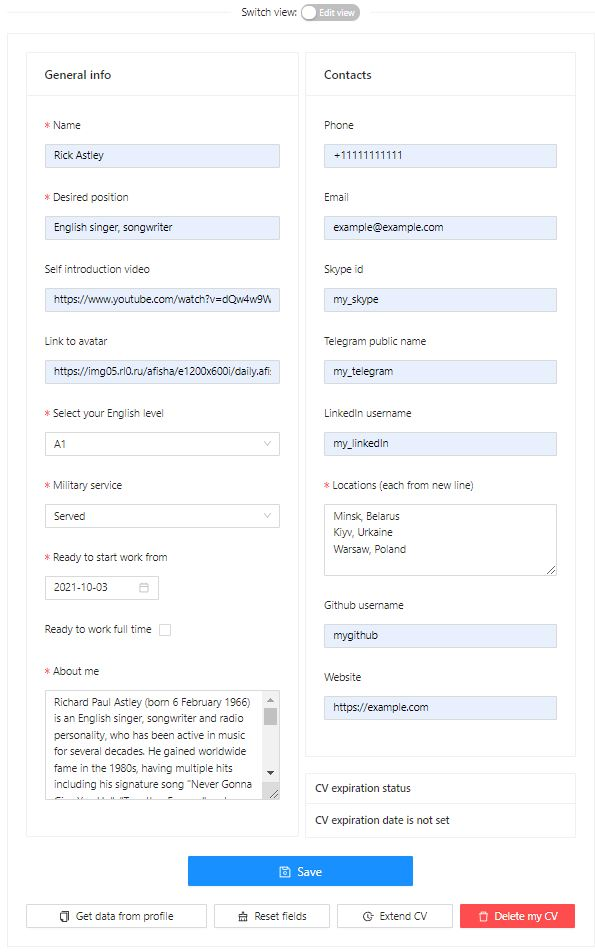
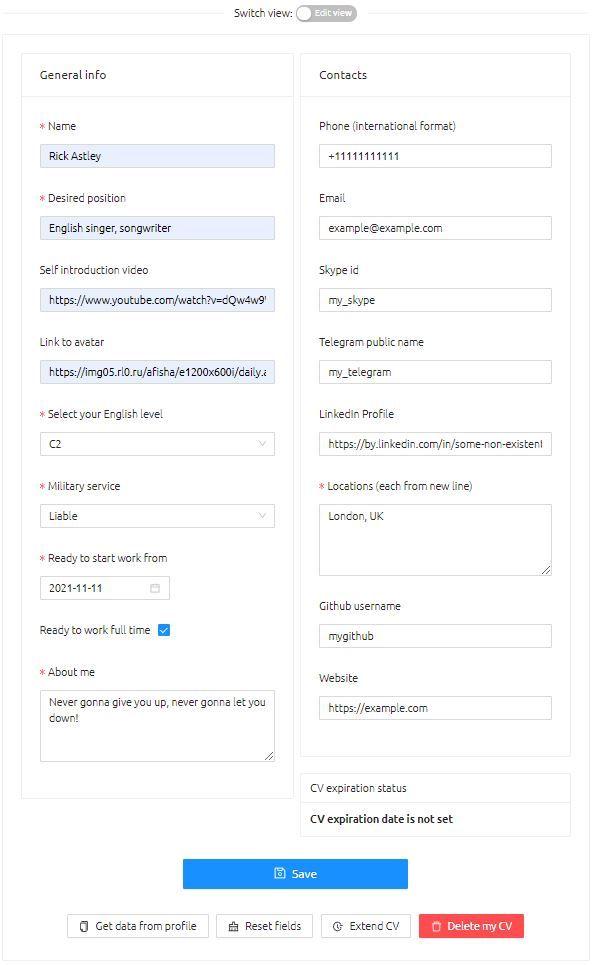
refactor: update phone input (#1052)
* feat: update phone input in CV form

* style: format codestyle in next.config.js

* docs: update cv phone info

* docs: update linkedin info

* docs: update cv screenshot according to changes

* fix: fix phone input placeholder

diff --git a/client/src/components/cv/forms/ContactsForm.tsx b/client/src/components/cv/forms/ContactsForm.tsx
@@ -29,13 +29,13 @@ const ContactsForm = React.forwardRef((props: Props, ref: any) => {
       <Form form={form} ref={ref} name="contacts">
         <Item
           style={itemStyle}
-          label="Phone"
+          label="Phone (international format)"
           wrapperCol={{ span: 24 }}
           labelCol={{ span: 24 }}
           name="phone"
           rules={[...validationRules['phone']]}
         >
-          <Input placeholder="Phone number" />
+          <Input placeholder="+12025550111" />
         </Item>
         <Item
           style={itemStyle}

diff --git a/docs/features/cv.md b/docs/features/cv.md
@@ -40,11 +40,11 @@ There are 2 types of data presented in the CV:
     - `Ready to work full time` - is the user ready to work full time
     - `About me` - a few sentences to tell about yourself
   - `Contacts`
-    - `Phone` - phone number
+    - `Phone` - phone number (international format)
     - `Email` - email address
     - `Skype id` - skype id
     - `Telegram public name` - Telegram public name (contained in the link to Telegram after `t.me/`)
-    - `LinkedIn username` - LinkedIn username (contained in thelink to the user's profile in LinkedIn)
+    - `LinkedIn` - link to the user's profile in LinkedIn
     - `Locations` - locations where the user is able to work (3 locations can be added, each from a new line, the extra ones will be truncated)
     - `Github username `- the github id of the account that user wants to show to the employer (it may differ from the one used for authentication in RS School App)
     - `Website` - a link to a website (with a portfolio, some profile etc.)
